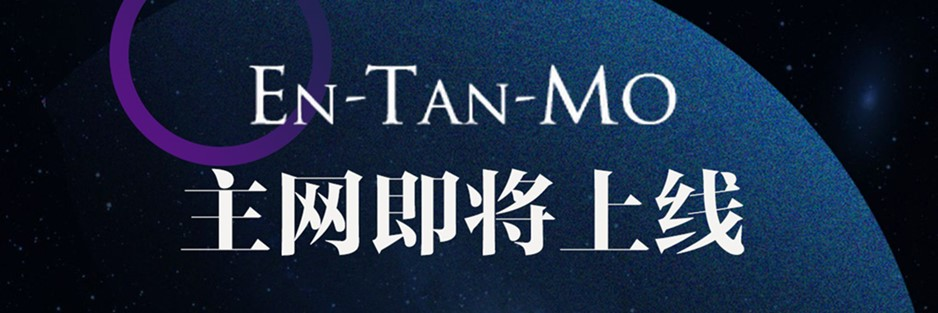
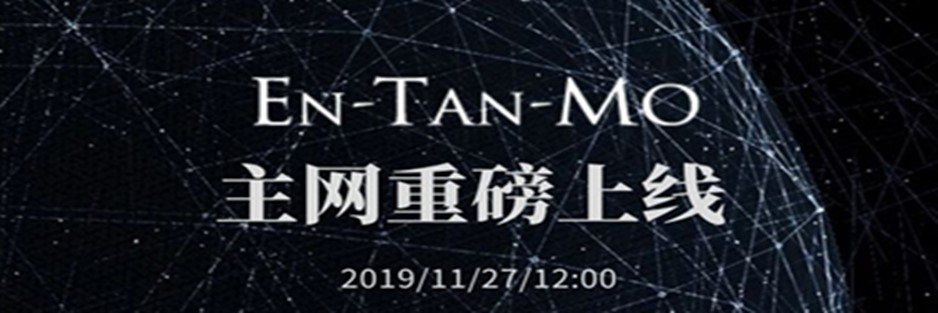
活动页面修改

diff --git a/webpack.production.config.js b/webpack.production.config.js
@@ -101,14 +101,14 @@ module.exports = {
 //             filename: 'src/[name].[chunkhash:8].js'
 //         }),
        
-//        new webpack.optimize.CommonsChunkPlugin({
-//            name: 'jsLib',
-//            filename: 'src/[name].[chunkhash:8].js'
-//        }),
-//        new webpack.optimize.CommonsChunkPlugin({
-//            name: 'uiLib',
-//            filename: 'src/[name].[chunkhash:8].js'
-//        }),
+       new webpack.optimize.CommonsChunkPlugin({
+           name: 'jsLib',
+           filename: 'src/[name].[chunkhash:8].js'
+       }),
+       new webpack.optimize.CommonsChunkPlugin({
+           name: 'uiLib',
+           filename: 'src/[name].[chunkhash:8].js'
+       }),
 
         
 //         new webpack.DefinePlugin({

diff --git a/public/index.html b/public/index.html
@@ -11,9 +11,9 @@
   <link rel="shortcut icon" href="favicon.ico" type="image/x-icon">
 	<link rel="bookmark" href="favicon.ico" />
 	<title>En-Tan-Mo</title>
-<link href="css/app.1b404513.css" rel="stylesheet"></head>
+<link href="css/app.92109381.css" rel="stylesheet"></head>
 <body>
 	<div id='App'></div>
 
-<script type="text/javascript" src="src/jsLib.f32b2aa6.js"></script><script type="text/javascript" src="src/app.1b404513.js"></script><script type="text/javascript" src="src/uiLib.c7f898c9.js"></script></body>
+<script type="text/javascript" src="src/jsLib.99821b3f.js"></script><script type="text/javascript" src="src/app.92109381.js"></script><script type="text/javascript" src="src/uiLib.07bc992d.js"></script></body>
 </html>

diff --git a/app/markdown/page30-en-GB.md b/app/markdown/page30-en-GB.md
@@ -1,8 +1,11 @@
-# En-Tan-Mo主网11月27日正式上线
-
+# En-Tan-Mo主网上线
 
 ![](./md_image/news-pic30-1.jpg)
 
-ETM主网上线时间确定为2019年11月27日，为保持链上稳定以及排查问题，En-Tan-Mo将在主网上线两周后正式开启映射。
+ETM主网于2019年11月27日12:00正式上线，主网代码及区块链浏览器代码可在GitHub查看。
+
+区块浏览器地址：http://explorer.entanmo.io/
+
+GitHub地址：https://github.com/entanmo/etm
 
 En-Tan-Mo提出并实现了SHD完备性，两位诺奖得主为项目提供学术支持。En-Tan-Mo最大特色是独创UPoS双稳态共识机制，主张挖矿的公平性和直接参与。

diff --git a/app/markdown/page30-zh-CN.md b/app/markdown/page30-zh-CN.md
@@ -1,8 +1,11 @@
-# En-Tan-Mo主网11月27日正式上线
-
+# En-Tan-Mo主网上线
 
 ![](./md_image/news-pic30-1.jpg)
 
-ETM主网上线时间确定为2019年11月27日，为保持链上稳定以及排查问题，En-Tan-Mo将在主网上线两周后正式开启映射。
+ETM主网于2019年11月27日12:00正式上线，主网代码及区块链浏览器代码可在GitHub查看。
+
+区块浏览器地址：http://explorer.entanmo.io/
+
+GitHub地址：https://github.com/entanmo/etm
 
 En-Tan-Mo提出并实现了SHD完备性，两位诺奖得主为项目提供学术支持。En-Tan-Mo最大特色是独创UPoS双稳态共识机制，主张挖矿的公平性和直接参与。
